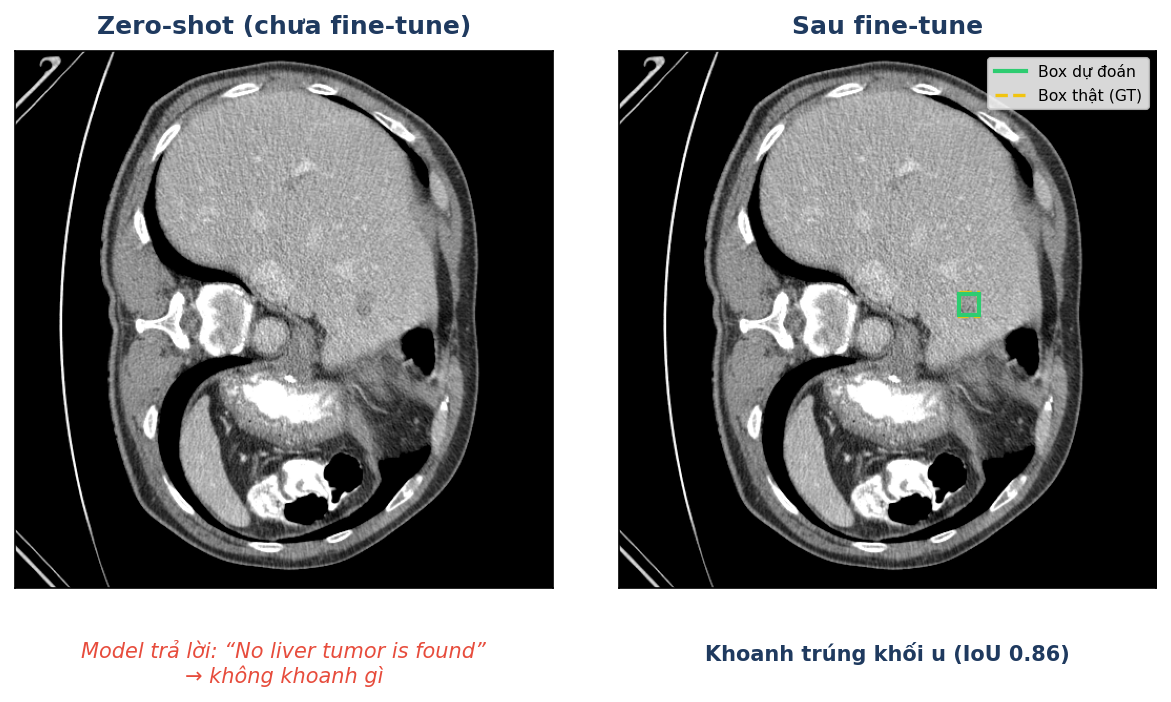
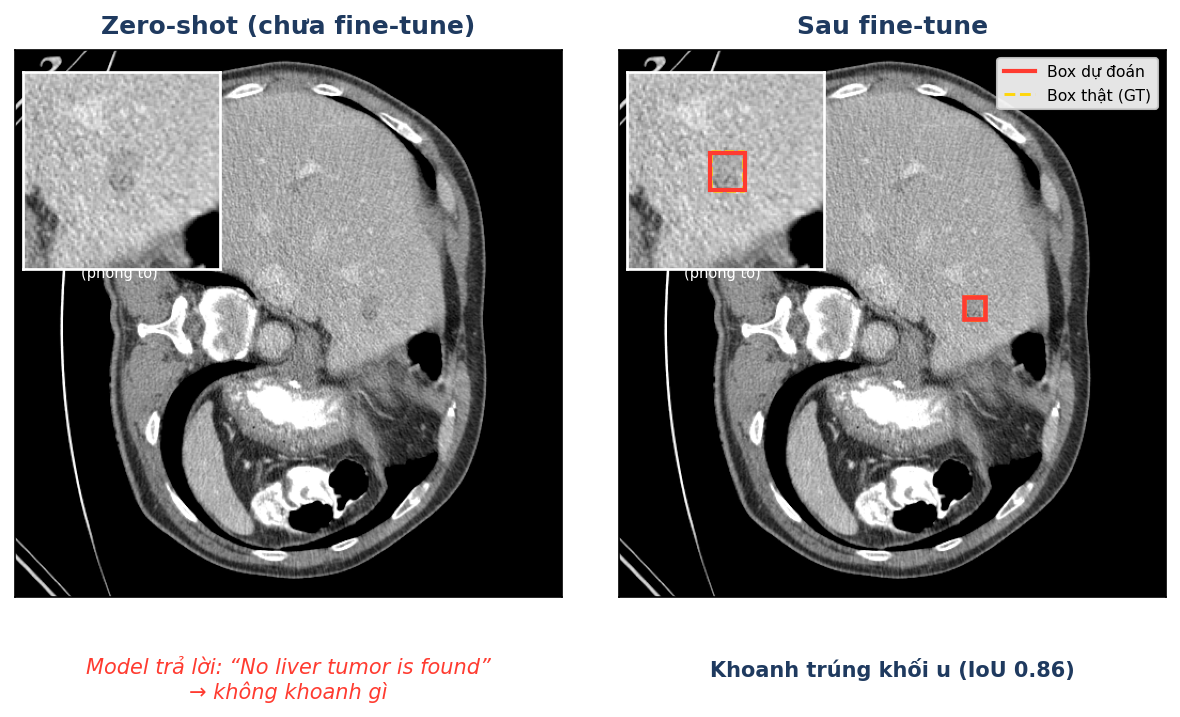
cai_tien: hình before/after — box ĐỎ + ô phóng to vùng u cho dễ nhìn

diff --git a/seminar/cai_tien/build_qual.py b/seminar/cai_tien/build_qual.py
@@ -1,5 +1,5 @@
 # -*- coding: utf-8 -*-
-"""Hình định tính before/after fine-tune (VN + EN). cwd=repo root."""
+"""Hình định tính before/after (VN+EN): box ĐỎ + zoom vùng u cho dễ nhìn. cwd=repo root."""
 import sys; sys.stdout.reconfigure(encoding="utf-8")
 import matplotlib; matplotlib.use("Agg")
 import matplotlib.pyplot as plt
@@ -8,32 +8,48 @@ from PIL import Image
 import numpy as np
 
 plt.rcParams["font.family"]="DejaVu Sans"
-NAVY="#1f3a5f"; GREEN="#2ecc71"; YELLOW="#f1c40f"; RED="#e74c3c"
+NAVY="#1f3a5f"; RED="#ff3b30"; YELLOW="#ffd60a"; GREYT="#555"
 IMG="seminar/code/data/data_liver_multi_v3/images/liver_014_pos_z355.png"
 im=np.array(Image.open(IMG).convert("L")); H,W=im.shape
 def sc(b): return [b[0]/1000*W, b[1]/1000*H, b[2]/1000*W, b[3]/1000*H]
 GT=sc([632,449,667,492]); PRED=sc([631,451,669,491])
+cx=(PRED[0]+PRED[2])/2; cy=(PRED[1]+PRED[3])/2; half=55
+x0,y0=int(cx-half),int(cy-half); x1c,y1c=int(cx+half),int(cy+half)
+crop=im[y0:y1c, x0:x1c]
 
 TXT={
  "vn":dict(t0="Zero-shot (chưa fine-tune)",t1="Sau fine-tune",
            c0="Model trả lời: “No liver tumor is found”\n→ không khoanh gì",
-           c1="Khoanh trúng khối u (IoU 0.86)",lp="Box dự đoán",lg="Box thật (GT)"),
+           c1="Khoanh trúng khối u (IoU 0.86)",lp="Box dự đoán",lg="Box thật (GT)",zoom="phóng to"),
  "en":dict(t0="Zero-shot (untrained)",t1="After fine-tune",
            c0="Model says: “No liver tumor is found”\n→ draws nothing",
-           c1="Correctly localizes the tumor (IoU 0.86)",lp="Predicted box",lg="Ground truth"),
+           c1="Correctly localizes the tumor (IoU 0.86)",lp="Predicted box",lg="Ground truth",zoom="zoom"),
 }
+def inset(ax,boxes):
+    ia=ax.inset_axes([0.015,0.60,0.36,0.36]); ia.imshow(crop,cmap="gray"); ia.set_xticks([]); ia.set_yticks([])
+    for c,ls,lw,bb in boxes:
+        ia.add_patch(Rectangle((bb[0]-x0,bb[1]-y0),bb[2]-bb[0],bb[3]-bb[1],fill=False,edgecolor=c,lw=lw,ls=ls))
+    for sp in ia.spines.values(): sp.set_edgecolor("white"); sp.set_linewidth(1.3)
+    ia.set_title("",fontsize=6)
+    return ia
+
 for lang,L in TXT.items():
-    fig,ax=plt.subplots(1,2,figsize=(8.2,4.4),dpi=150)
+    fig,ax=plt.subplots(1,2,figsize=(8.2,4.5),dpi=150)
     for a in ax: a.imshow(im,cmap="gray"); a.set_xticks([]); a.set_yticks([])
+    # Panel A — zero-shot: không box, chỉ zoom vùng u (không box) + nhãn vùng
     ax[0].set_title(L["t0"],fontsize=12,fontweight="bold",color=NAVY,pad=8)
-    ax[0].text(0.5,-0.10,L["c0"],transform=ax[0].transAxes,ha="center",va="top",fontsize=10,color=RED,style="italic")
+    inset(ax[0],[])  # zoom, không box
+    ax[0].text(0.19,0.585,"("+L["zoom"]+")",transform=ax[0].transAxes,ha="center",fontsize=7,color="white")
+    ax[0].text(0.5,-0.11,L["c0"],transform=ax[0].transAxes,ha="center",va="top",fontsize=10,color=RED,style="italic")
+    # Panel B — sau fine-tune: box đỏ (pred) + vàng đứt (GT)
     ax[1].set_title(L["t1"],fontsize=12,fontweight="bold",color=NAVY,pad=8)
-    gx,gy,gx2,gy2=GT; px,py,px2,py2=PRED
-    ax[1].add_patch(Rectangle((gx,gy),gx2-gx,gy2-gy,fill=False,edgecolor=YELLOW,lw=1.6,ls="--"))
-    ax[1].add_patch(Rectangle((px,py),px2-px,py2-py,fill=False,edgecolor=GREEN,lw=2.0))
-    ax[1].text(0.5,-0.10,L["c1"],transform=ax[1].transAxes,ha="center",va="top",fontsize=10,color=NAVY,fontweight="bold")
-    ax[1].plot([],[],color=GREEN,lw=2,label=L["lp"]); ax[1].plot([],[],color=YELLOW,lw=1.6,ls="--",label=L["lg"])
-    ax[1].legend(loc="upper right",fontsize=7.5,framealpha=0.85)
-    plt.tight_layout(rect=[0,0.04,1,1])
+    ax[1].add_patch(Rectangle((GT[0],GT[1]),GT[2]-GT[0],GT[3]-GT[1],fill=False,edgecolor=YELLOW,lw=1.4,ls="--"))
+    ax[1].add_patch(Rectangle((PRED[0],PRED[1]),PRED[2]-PRED[0],PRED[3]-PRED[1],fill=False,edgecolor=RED,lw=2.2))
+    inset(ax[1],[(YELLOW,"--",1.2,GT),(RED,"-",2.0,PRED)])
+    ax[1].text(0.19,0.585,"("+L["zoom"]+")",transform=ax[1].transAxes,ha="center",fontsize=7,color="white")
+    ax[1].text(0.5,-0.11,L["c1"],transform=ax[1].transAxes,ha="center",va="top",fontsize=10,color=NAVY,fontweight="bold")
+    ax[1].plot([],[],color=RED,lw=2,label=L["lp"]); ax[1].plot([],[],color=YELLOW,lw=1.4,ls="--",label=L["lg"])
+    ax[1].legend(loc="upper right",fontsize=7.5,framealpha=0.9)
+    plt.tight_layout(rect=[0,0.05,1,1])
     out=f"seminar/code/before_after_qual_{lang}.png"
     plt.savefig(out,bbox_inches="tight",facecolor="white"); plt.close(); print("saved",out)